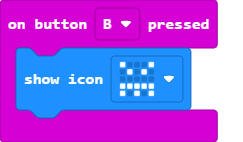
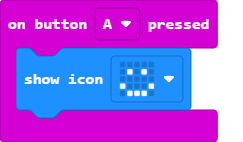
Update pxt.json, main.blocks, main.ts

diff --git a/main.ts b/main.ts
@@ -1,3 +1,6 @@
+input.onButtonPressed(Button.A, function () {
+    basic.showIcon(IconNames.Happy)
+})
 input.onButtonPressed(Button.B, function () {
     basic.showIcon(IconNames.Angry)
 })
